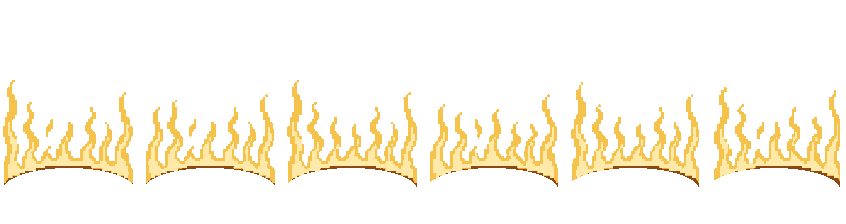
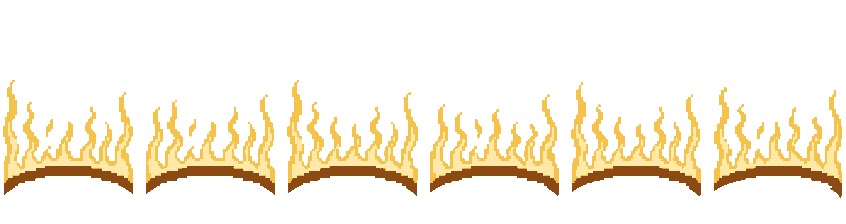
fix(fx): 앞 불꽃을 발바닥에 붙이고 길이를 못 박음 (내리기 -> 늘리기)
대표 8-18 지적 3건.

1) "발 앞부터 시작해서 한바퀴 두르는 이펙트로 가야함"
   타원을 아래로 내려 **가까운 호를 발바닥(y=220)에** 놓았다(ell_top 167->176, 단축 39->54).
   앞 불꽃 밑동이 발 앞에서 시작해 양옆으로 돌아 뒤 불꽃과 이어진다.

2) "앞에 있는 몇 불꽃은 캐릭터의 정강이 부분 뒤로 오히려 숨어진다"
   앞 불꽃을 **통째로 내린** 게 원인이었다. 내리면 꼭대기까지 같이 내려가 앞 불꽃이
   짧아진다 - 가까운 쪽은 원래 더 커 보여야 하는데 반대가 됐다.
   → 내리지 말고 **늘린다.** 밑동만 가까운 호까지 끌어내리고 위로 세운다.

3) 목까지 파묻히던 것 - 원본 쪽에만 길이 상한을 걸었더니 늘린 뒤 다시 길어졌다.
   **최종 길이(front_len)를 직접 못 박는다.** 밑동을 가까운 호에 붙이고 거기서
   front_len 만큼만 위로. 지금 52 = 엉덩이 언저리. 얼굴·상체는 살아 있다.

인자: <뒷면.png> <이름> [ELL_TOP=176] [SHIFT=54] [RX=68] [FRONT_LEN=52]

Changed region(s): [[0.0, 0.75, 1.0, 0.875], [0.9835, 0.5625, 1.0, 0.625]]

diff --git a/char/make_aura_from_sheet.py b/char/make_aura_from_sheet.py
@@ -58,7 +58,7 @@ def key_and_shrink(src):
     return out
 
 
-def build(sheet_path, name, ell_top=167, shift=39, rx=66):
+def build(sheet_path, name, ell_top=176, shift=54, rx=68, front_len=62):
     frames = key_and_shrink(Image.open(sheet_path))
     back = Image.new('RGBA', (W * FRAMES, H), (0, 0, 0, 0))
     front = Image.new('RGBA', (W * FRAMES, H), (0, 0, 0, 0))
@@ -88,14 +88,36 @@ def build(sheet_path, name, ell_top=167, shift=39, rx=66):
             k = (1.0 - u * u) ** 0.5
             y_far = int(round(cy - ry * k))    # 먼 호 (뒤) — 여기가 뒷불의 밑동
             gap = int(round(2 * ry * k))       # 두 호 사이 간격: 가운데 최대, 양끝 0
+            # 이 열에서 불꽃이 시작되는 꼭대기
+            ytop = None
+            for y in range(H):
+                if src[x, y][3] != 0 and y <= y_far:
+                    ytop = y
+                    break
+            if ytop is None:
+                continue
+            span = max(1, y_far - ytop)
+            # ★FRONT 는 **내리는 게 아니라 늘린다** (대표 8-18 세 번째 지적:
+            #   "앞에 있는 몇 불꽃은 캐릭터의 정강이 부분 뒤로 오히려 숨어진다").
+            #   통째로 내리면 꼭대기까지 같이 내려가 앞 불꽃이 **짧아진다.**
+            #   가까운 쪽은 원래 더 커 보여야 한다 → 꼭대기는 두고 밑동만 가까운 호까지
+            #   끌어내려 세로로 늘린다. 그래야 발 앞에서 시작해 정강이를 타고 오른다.
+            # ★앞 불꽃의 **최종 길이를 직접 못 박는다.**
+            #   원본 쪽에만 상한을 걸었더니 늘린 뒤 다시 길어져 목까지 올라왔다.
+            #   밑동은 가까운 호(=발바닥)에 붙이고, 거기서 front_len 만큼만 위로 올린다.
+            y_near = y_far + gap                       # 가까운 호 = 앞 불꽃의 밑동
+            k2 = front_len / float(span)
             for y in range(H):
                 p = src[x, y]
                 if p[3] == 0 or y > y_far:     # 곡선 아래(=타원 안쪽)는 버린다
                     continue
                 pb[x, y] = p                   # BACK: 곡선 위 불꽃 그대로
-                y2 = y + gap                   # FRONT: 같은 불꽃을 가까운 호로 내린다
+                y2 = int(round(y_near - (y_far - y) * k2))
                 if 0 <= y2 < H:
                     pf[x, y2] = p
+                    # 늘리면 픽셀 사이가 벌어진다 — 아래 한 칸을 같이 채워 끊김을 막는다
+                    if k2 > 1.15 and y2 + 1 < H and pf[x, y2 + 1][3] == 0:
+                        pf[x, y2 + 1] = p
         back.paste(fb, (i * W, 0))
         front.paste(ff, (i * W, 0))
     os.makedirs(OUT, exist_ok=True)
@@ -111,4 +133,5 @@ if __name__ == '__main__':
     build(sys.argv[1], sys.argv[2],
           int(sys.argv[3]) if len(sys.argv) > 3 else 167,
           int(sys.argv[4]) if len(sys.argv) > 4 else 39,
-          int(sys.argv[5]) if len(sys.argv) > 5 else 66)
+          int(sys.argv[5]) if len(sys.argv) > 5 else 68,
+          int(sys.argv[6]) if len(sys.argv) > 6 else 62)
